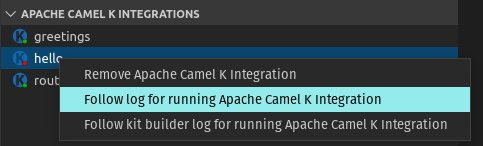
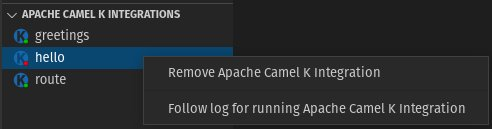
removing kit log action and menu along with didact and readme references

diff --git a/src/extension.ts b/src/extension.ts
@@ -159,24 +159,6 @@ export async function activate(context: vscode.ExtensionContext) {
 			});
 		});
 
-		// create the context menu integration view action -- open kit log
-		vscode.commands.registerCommand('camelk.integrations.kitlog', async (node: TreeNode) => {
-			let selection : TreeNode = node;
-			if (!selection) {
-				if (camelKIntegrationsTreeView.selection) {
-					selection = camelKIntegrationsTreeView.selection[0] as TreeNode;
-				}
-			}
-			if (selection && selection.label) {
-				let integrationName : string = selection.label;
-				utils.shareMessage(mainOutputChannel, `Retrieving log for Apache Camel K Integration kit...`);
-				await logUtils.handleKitLog(integrationName)
-				.catch( (err) => {
-					utils.shareMessage(mainOutputChannel, `No Apache Camel K Integration Kit available: ${err} \n`);
-				});
-			}
-		});
-
 		vscode.commands.registerCommand('camelk.integrations.createNewIntegrationFile', async (...args:any[]) => { await NewIntegrationFileCommand.create(args);});
 
 		vscode.commands.registerCommand('camelk.integrations.selectFirstNode', () => { selectFirstItemInTree();});

diff --git a/README.md b/README.md
@@ -235,7 +235,7 @@ Optionally, to disable status bar messages:
 
 ## Viewing the log for a Apache Camel K Operator
 
-In the background of each Apache Camel K system, there is usually an Operator coordinating the various builders and integrations being spun up. This log will often contain information not found in the other logs (see [Viewing the running log](#viewing-the-running-log-for-a-published-apache-camel-k-integration) and [Viewing the Kit Builder Log](#viewing-the-kit-builder-log-for-an-apache-camel-k-integration) below for details on opening the other available logs).
+In the background of each Apache Camel K system, there is usually an Operator coordinating the various builders and integrations being spun up. This log will often contain information not found in the operator log (see [Viewing the running log](#viewing-the-running-log-for-a-published-apache-camel-k-integration) below for details on opening the integration log).
 
 ![Apache Camel K Integrations view - Follow log](images/camelk-integrations-view-operator-log-action.jpg)
 
@@ -259,13 +259,6 @@ Note: By default, `Auto-scroll` is checked and new entries in the log will autom
 
 1. From the **Apache Camel K Integrations** view, right-click the integration that you want to stop.
 2. Select **Remove Apache Camel K Integration**.
-
-## Viewing the Kit Builder Log for an Apache Camel K integration
-
-1. From the **Apache Camel K Integrations** view, right-click the integration that you want to stop.
-2. Select **Follow kit builder log for running Apache Camel K integration**.
-
-A new view opens. It is named for the running pod where the Kit Builder is running. This log updates as new data is added. 
 
 ## Apache Camel K Extension Settings
 

diff --git a/didact/camelk/first-integration.md b/didact/camelk/first-integration.md
@@ -85,7 +85,6 @@ From here, we can:
 - Hover over the `Apache Camel K Integrations` view and click the `Open Apache Camel K Operator Log` button to view it. [(Execute^)](didact://?commandId=camelk.integrations.openOperatorLog)
 - Hover over the integration name to see its current state in the tooltip. [(Execute to select first integration in tree^)](didact://?commandId=camelk.integrations.selectFirstNode)
 - Right-click on the running integration to `Follow log for running Apache Camel K Integration` [(Execute for selected integration^)](didact://?commandId=camelk.integrations.log)
-- Right-click on the running integration to `Follow kit builder log for running Apache Camel K Integration` [(Execute for selected integration^)](didact://?commandId=camelk.integrations.kitlog)
 - Right-click on the running integration to `Remove Apache Camel K Integration` and undeploy it.
 
 
